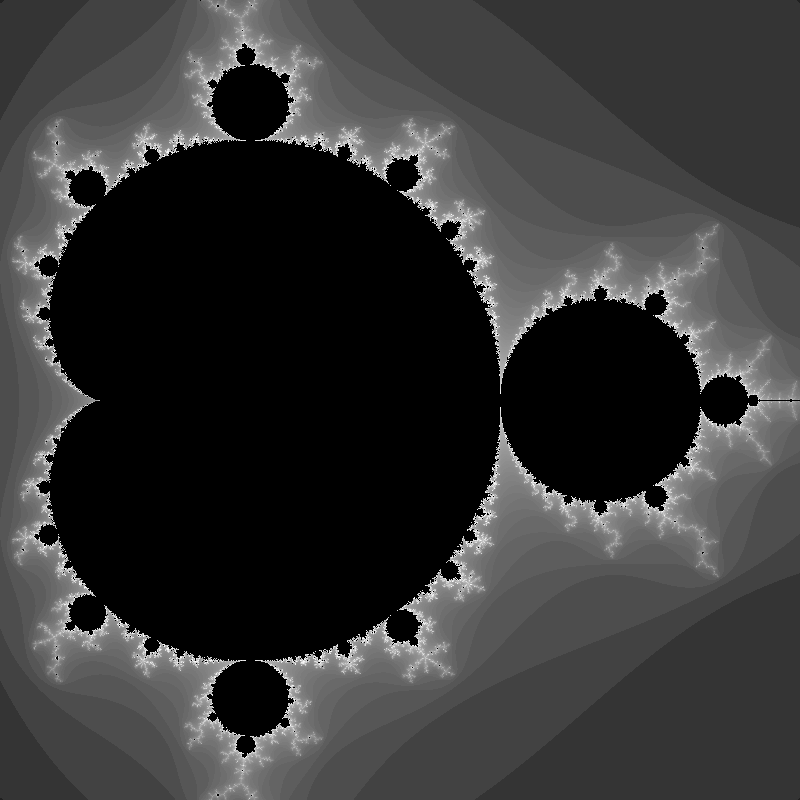
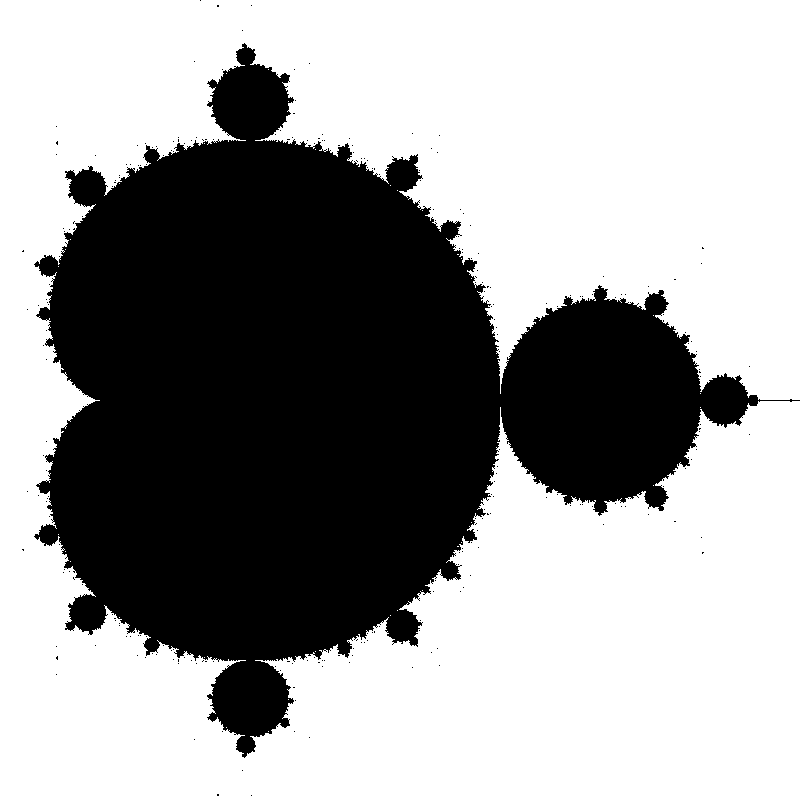
Add pure Go implementation

diff --git a/mandelbrot.go b/mandelbrot.go
@@ -1,0 +1,56 @@
+package main
+
+import "C"
+import (
+	"fmt"
+	"image"
+	"image/color"
+	"image/png"
+	"math/cmplx"
+	"os"
+)
+
+const w = float64(800)
+const h = float64(800)
+const MAX_ITERS = 200
+
+func transform(row int, col int) complex128 {
+	var y = 2 * (float64(col) - w/2.0) / w
+	var x = -2 * (float64(row) - h/4.0) / h
+	return complex(x, y)
+}
+
+func colorOf(row int, col int) uint8 {
+	c := transform(row, col)
+	var z complex128 = c
+	for i := 0; i < MAX_ITERS || cmplx.Abs(z) > 2; i += 1 {
+		z = z*z + c
+	}
+
+	if cmplx.Abs(z) < 2 {
+		return uint8(0)
+	} else {
+		return uint8(255)
+	}
+}
+
+func writeMandelbrotImageToFile() {
+	m := image.NewRGBA(image.Rect(0, 0, int(w), int(h)))
+	for i := 0; i < int(w); i += 1 {
+		for j := 0; j < int(h); j += 1 {
+			c := colorOf(i, j)
+			m.Set(i, j, color.RGBA{c, c, c, 255})
+		}
+	}
+	file, err := os.Create("pure-go.png")
+	if err != nil {
+		fmt.Printf("%v\n", err)
+	}
+	defer file.Close()
+	enc := png.Encoder{CompressionLevel: -1}
+	enc.Encode(file, m)
+}
+
+func main() {
+	writeMandelbrotImageToFile()
+}

diff --git a/mandelbrot.rb b/mandelbrot.rb
@@ -26,23 +26,12 @@ def mandelbrot_matrix(w, h)
     # compute z -> z^2 + c, where c is the initial value in the complex plane
     c = transform.call(row, col)
     z = c
-    iters = 0
     MAX_ITERS.times { |_|
       z = z*z + c
-      iters += 1
       break if z.magnitude > 2
     }
 
-    # map iteration count to color
-    i = (255*(Math.log(iters+1)/Math.log(MAX_ITERS))).floor
-
-    red,green,blue = if z.magnitude < 2
-                       [0,0,0]
-                     else
-                       [i,i,i]
-                     end
-
-    [red, green, blue]
+    (z.magnitude < 2) ? 0 : 255
   }
 
   w.times do |col|
@@ -57,9 +46,9 @@ end
 m = mandelbrot_matrix(width,height)
 width.times do |col|
   height.times do |row|
-    red,green,blue = m[row][col]
-    png[row,col] = ChunkyPNG::Color.rgba(red, green, blue, 255)
+    c = m[row][col]
+    png[row,col] = ChunkyPNG::Color.rgba(c,c,c, 255)
   end
 end
 
-png.save('pure-ruby.png', interlace: true)
+png.save('pure-ruby.png', interlace: false)

diff --git a/README.md b/README.md
@@ -1,10 +1,21 @@
 # Mandelbrot set in Ruby and in Go
 
-Generates a mandelbrot set image in pure Ruby, and then uses 
-FFI (foreign function interface) to call into Go code, speeds 
-are compared.
+Generates a mandelbrot set image in pure Ruby, and one in pure Go,
+results and speeds are compared.
 
 ![mandelbrot set](pure-ruby.png)
+
+# Results
+
+```
+~/src/mandelbrot(master+)% time ruby mandelbrot.rb
+ruby mandelbrot.rb  47.45s user 0.12s system 99% cpu 47.611 total
+
+~/src/mandelbrot(master+*)% time ./mandelbrot
+./mandelbrot  0.60s user 0.01s system 101% cpu 0.599 total
+```
+
+That Go version, without any concurrency is 79 times faster than the Ruby version.
 
 # Dependencies
 
